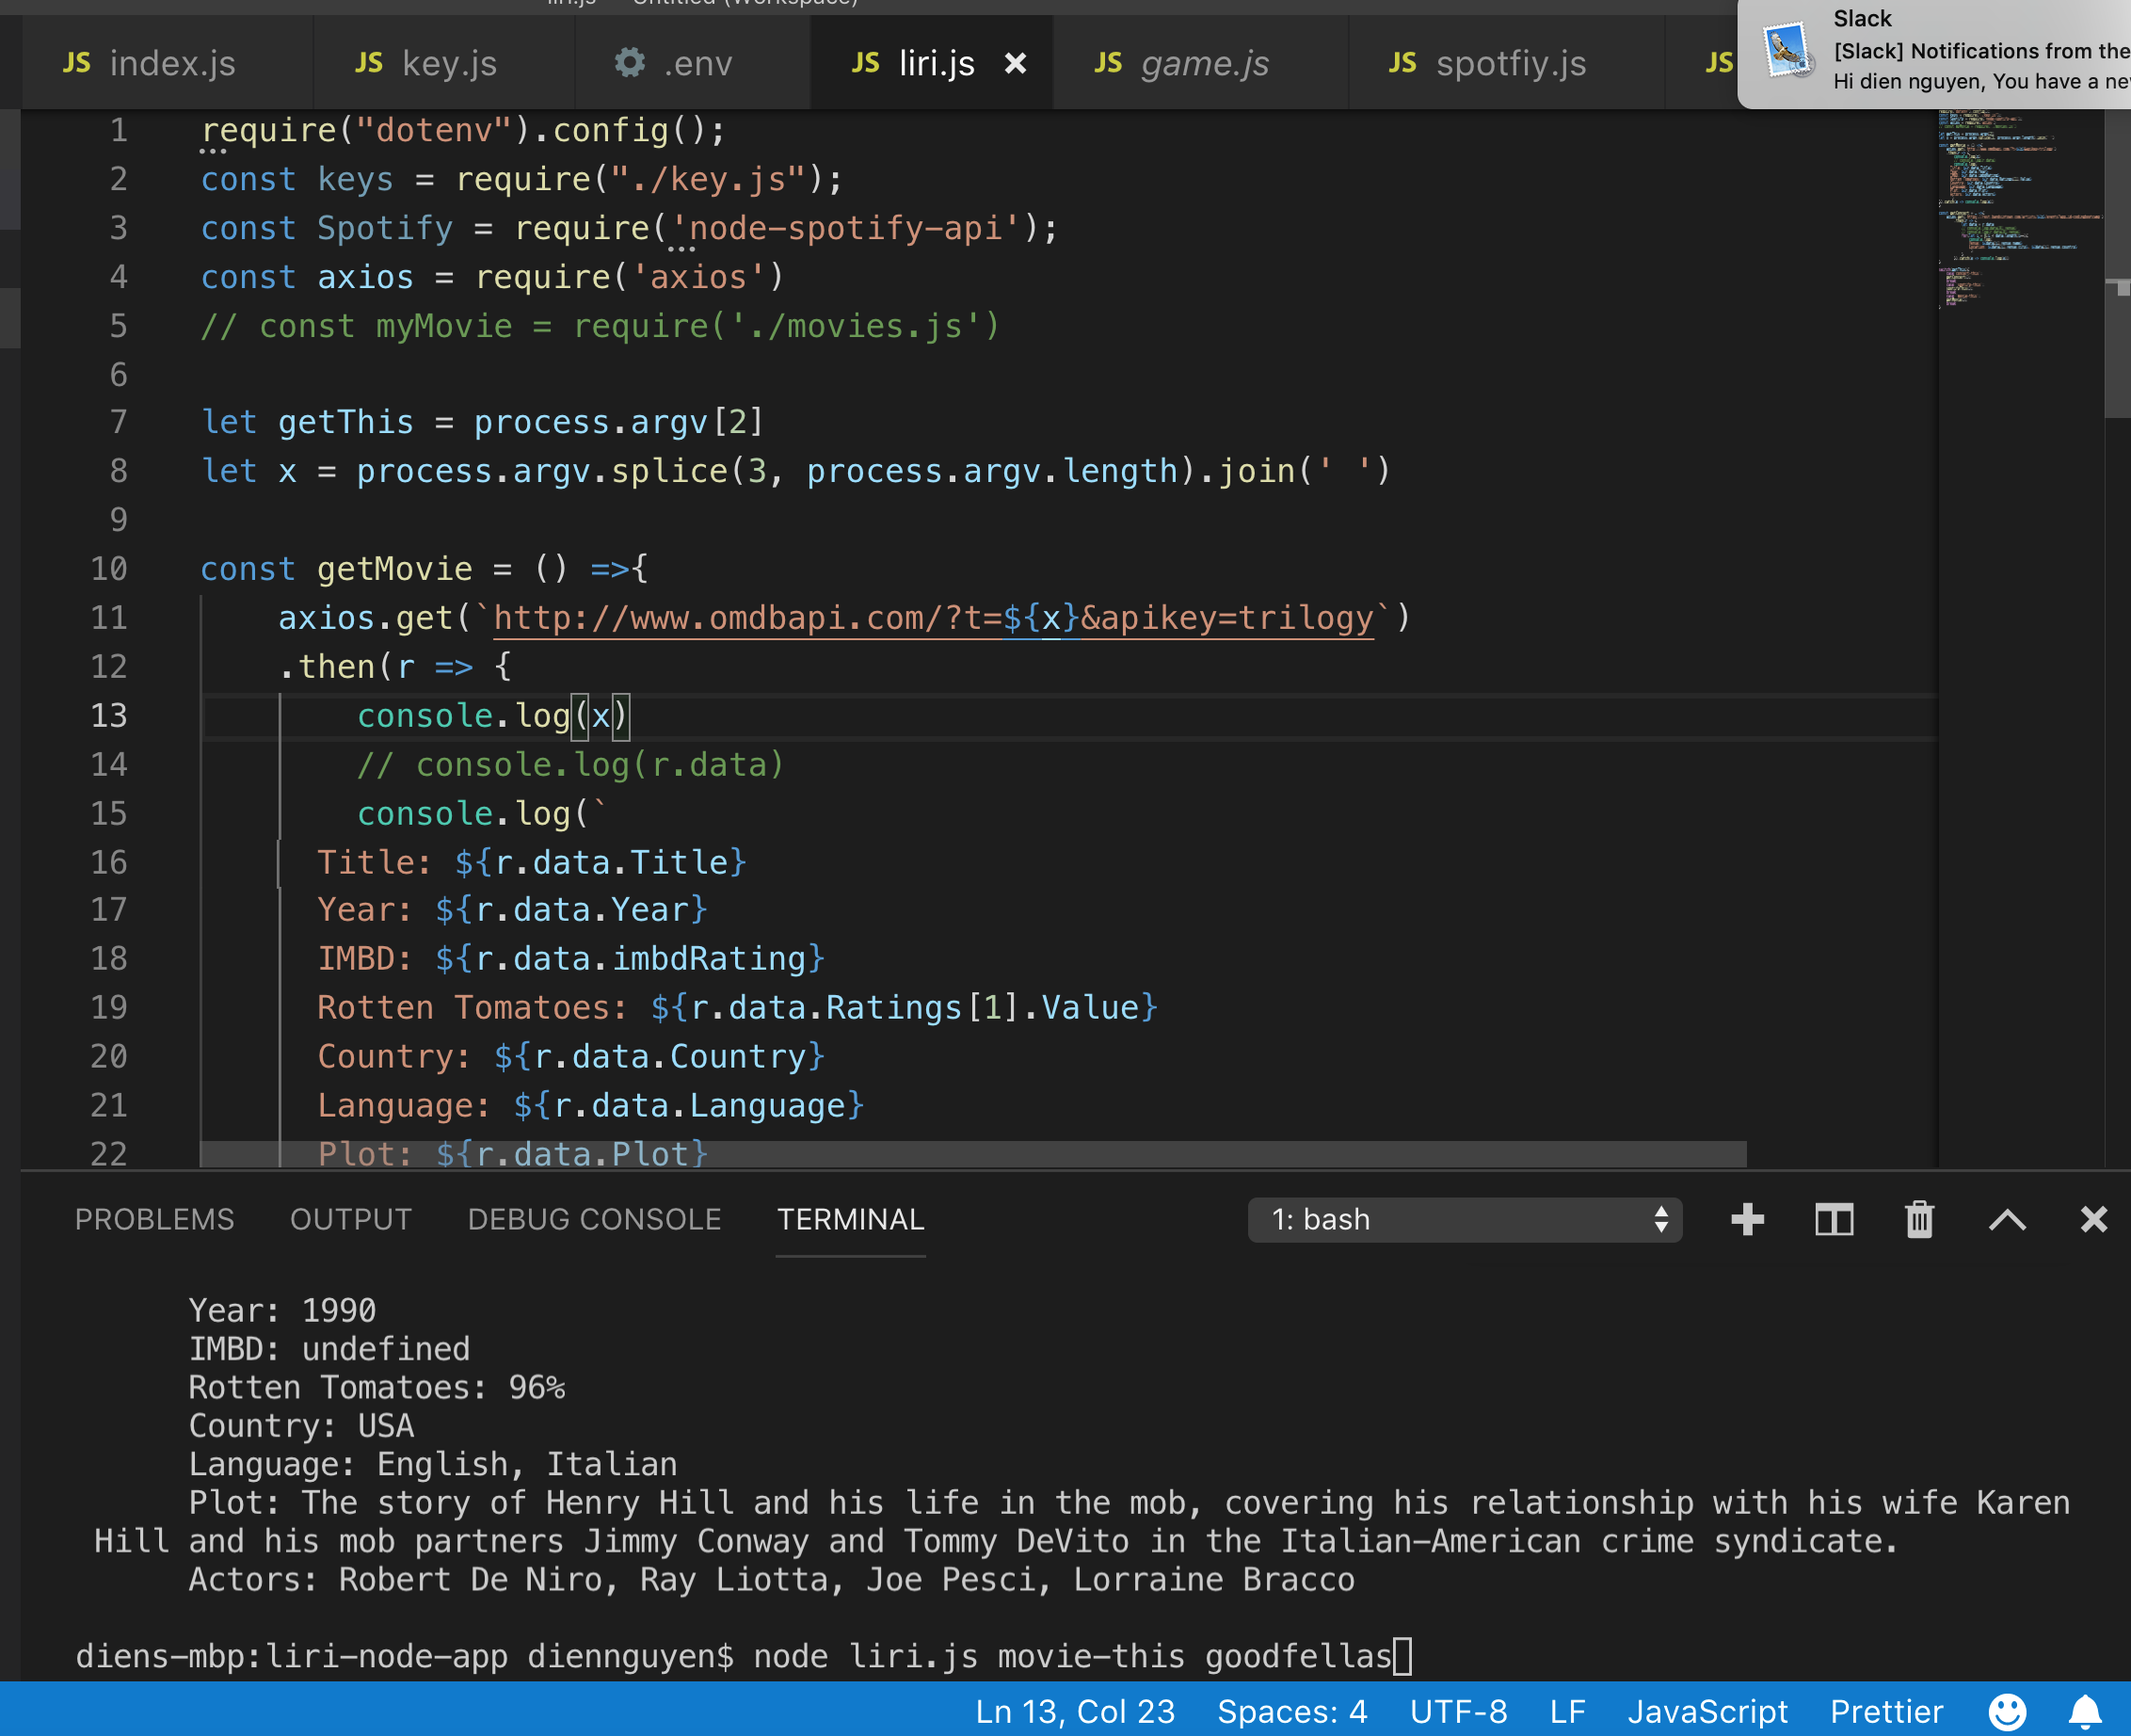
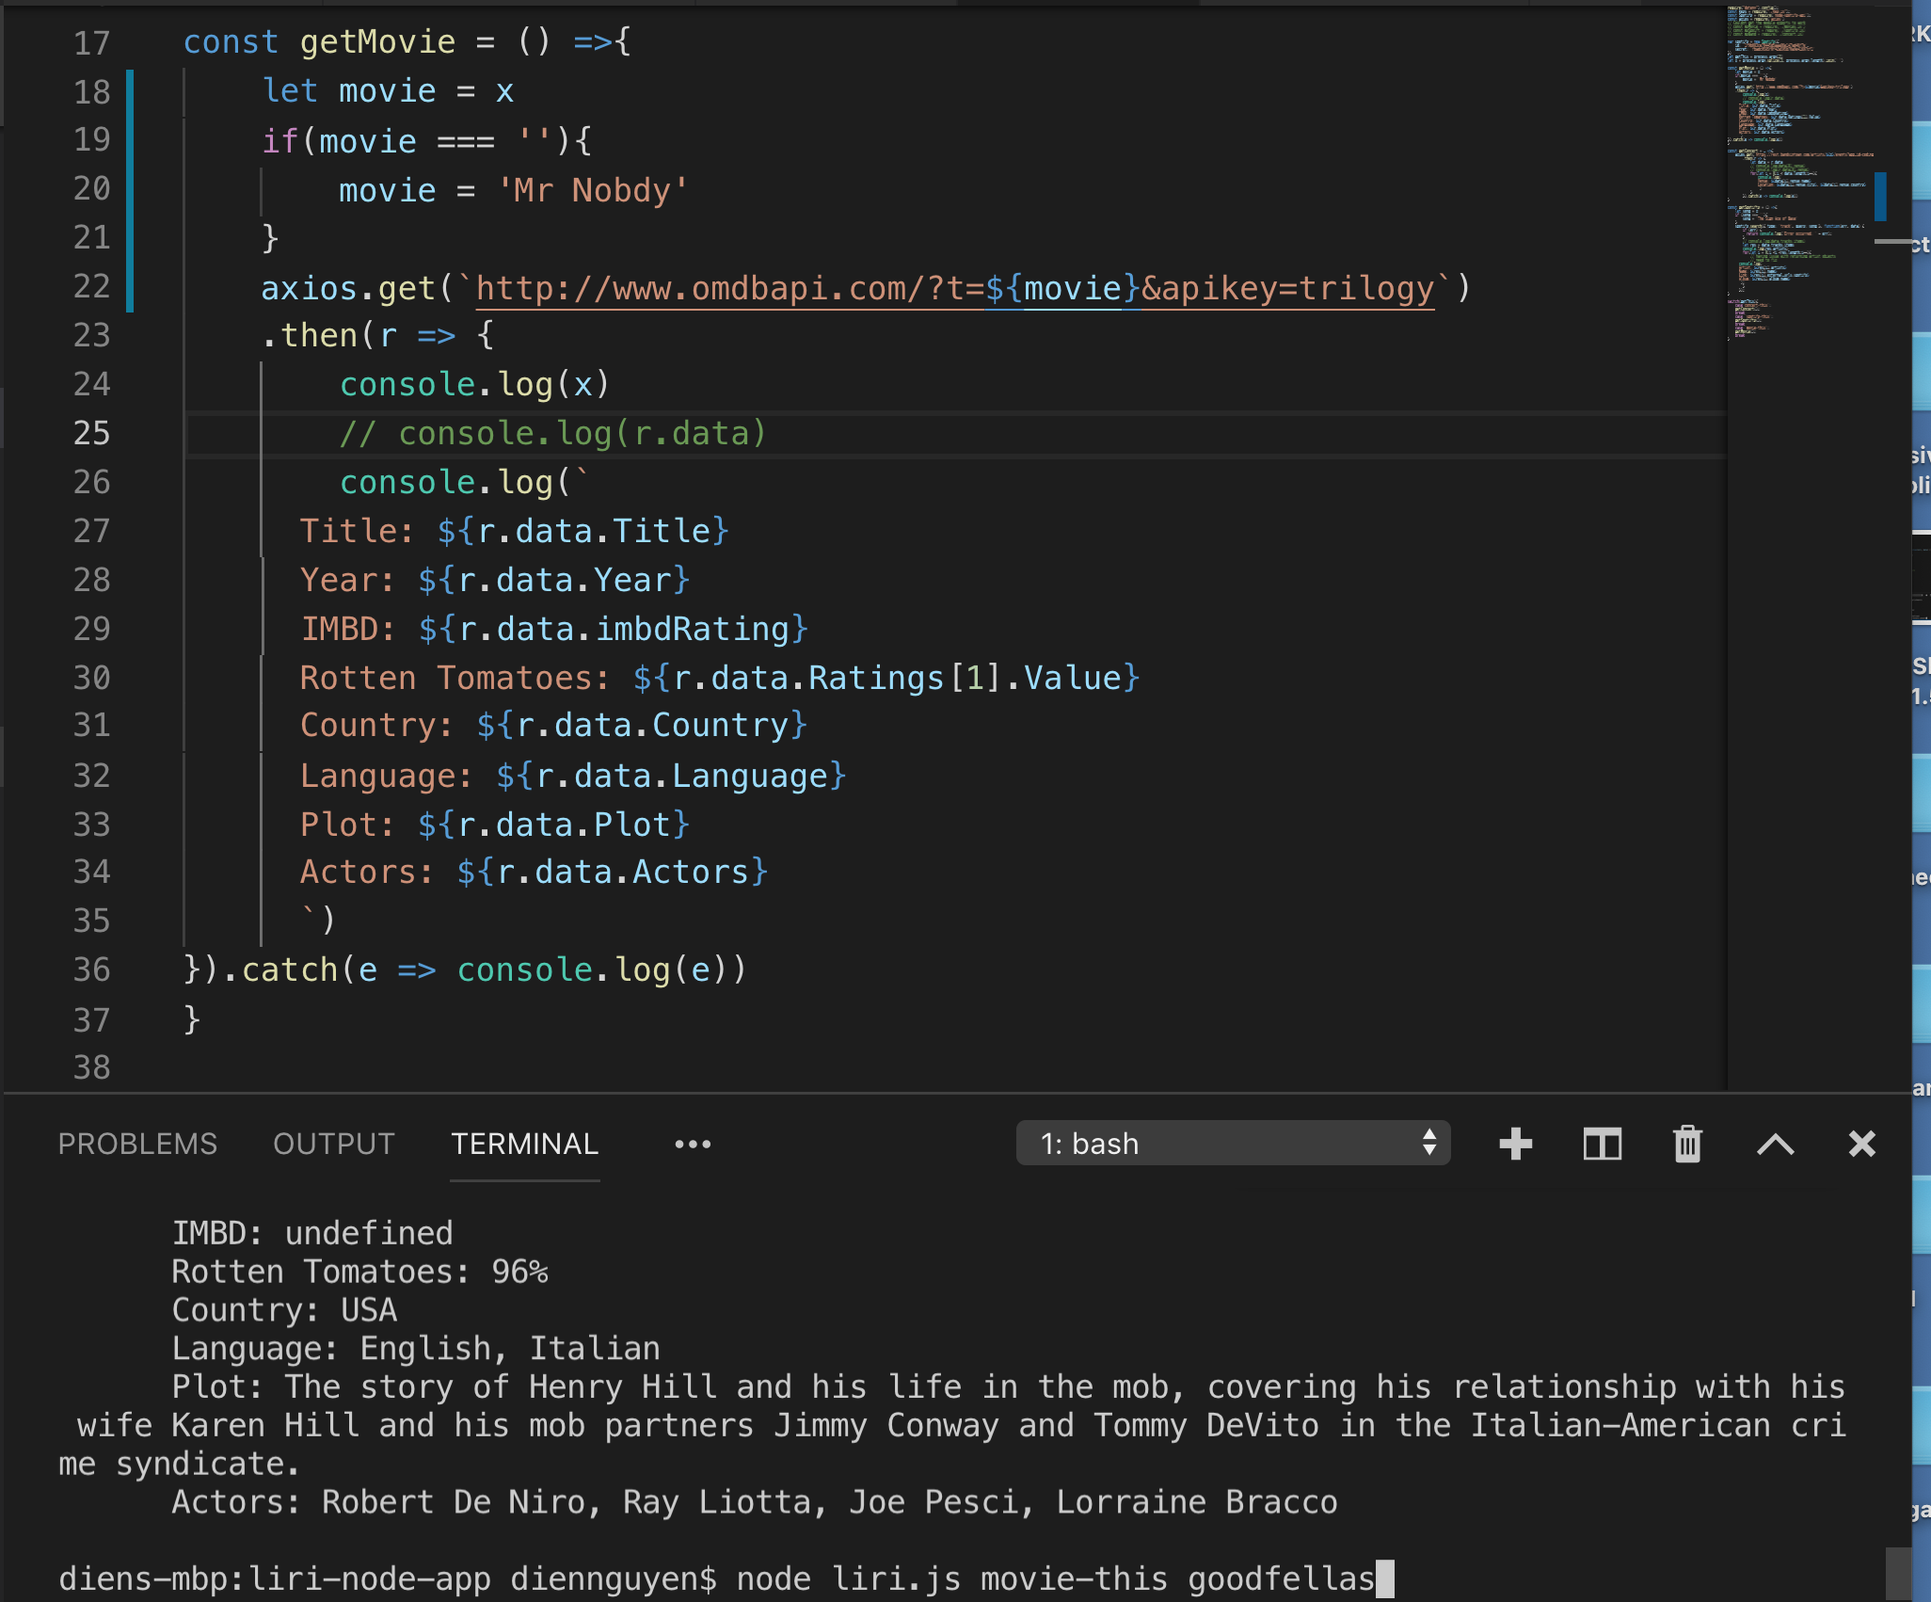
movie and spotify changes

Changed region(s): [[0.0, 0.0, 1.0, 1.0]]

diff --git a/liri.js b/liri.js
@@ -15,7 +15,11 @@ let getThis = process.argv[2]
 let x = process.argv.splice(3, process.argv.length).join(' ')
 
 const getMovie = () =>{
-    axios.get(`http://www.omdbapi.com/?t=${x}&apikey=trilogy`)
+    let movie = x
+    if(movie === ''){
+        movie = 'Mr Nobdy'
+    }
+    axios.get(`http://www.omdbapi.com/?t=${movie}&apikey=trilogy`)
     .then(r => {
         console.log(x)
         // console.log(r.data)
